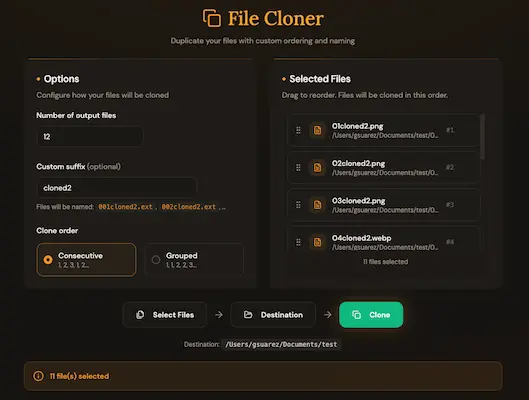
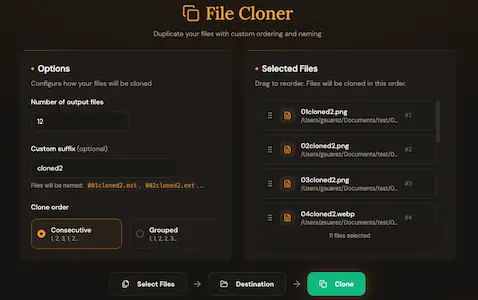
fix(portfolio): adjust images and technologies

diff --git a/index.html b/index.html
@@ -186,43 +186,54 @@
               </p>
               <footer class="card-footer">
                 <p class="technologies">
-                  <span title="NodeJS">
+                  <span title="NextJS">
                     <svg xmlns="http://www.w3.org/2000/svg" width="24" height="24" viewBox="0 0 24 24" fill="none"
                       stroke="currentColor" stroke-width="1.5" stroke-linecap="round" stroke-linejoin="round"
-                      class="icon icon-tabler icons-tabler-outline icon-tabler-brand-nodejs">
+                      class="icon icon-tabler icons-tabler-outline icon-tabler-brand-nextjs">
+                      <path stroke="none" d="M0 0h24v24H0z" fill="none" />
+                      <path d="M9 15v-6l7.745 10.65a9 9 0 1 1 2.255 -1.993" />
+                      <path d="M15 12v-3" />
+                    </svg>
+                  </span>
+                  <span title="TypeScript">
+                    <svg xmlns="http://www.w3.org/2000/svg" width="24" height="24" viewBox="0 0 24 24" fill="none"
+                      stroke="currentColor" stroke-width="1.5" stroke-linecap="round" stroke-linejoin="round"
+                      class="icon icon-tabler icons-tabler-outline icon-tabler-brand-typescript">
                       <path stroke="none" d="M0 0h24v24H0z" fill="none" />
                       <path
-                        d="M9 9v8.044a2 2 0 0 1 -2.996 1.734l-1.568 -.9a3 3 0 0 1 -1.436 -2.561v-6.635a3 3 0 0 1 1.436 -2.56l6 -3.667a3 3 0 0 1 3.128 0l6 3.667a3 3 0 0 1 1.436 2.561v6.634a3 3 0 0 1 -1.436 2.56l-6 3.667a3 3 0 0 1 -3.128 0" />
-                      <path d="M17 9h-3.5a1.5 1.5 0 0 0 0 3h2a1.5 1.5 0 0 1 0 3h-3.5" />
+                        d="M15 17.5c.32 .32 .754 .5 1.207 .5h.543c.69 0 1.25 -.56 1.25 -1.25v-.25a1.5 1.5 0 0 0 -1.5 -1.5a1.5 1.5 0 0 1 -1.5 -1.5v-.25c0 -.69 .56 -1.25 1.25 -1.25h.543c.453 0 .887 .18 1.207 .5" />
+                      <path d="M9 12h4" />
+                      <path d="M11 12v6" />
+                      <path d="M21 19v-14a2 2 0 0 0 -2 -2h-14a2 2 0 0 0 -2 2v14a2 2 0 0 0 2 2h14a2 2 0 0 0 2 -2" />
                     </svg>
                   </span>
-                  <span title="JavaScript">
+                  <span title="ReactJS">
                     <svg xmlns="http://www.w3.org/2000/svg" width="24" height="24" viewBox="0 0 24 24" fill="none"
                       stroke="currentColor" stroke-width="1.5" stroke-linecap="round" stroke-linejoin="round"
-                      class="icon icon-tabler icons-tabler-outline icon-tabler-brand-javascript">
+                      class="icon icon-tabler icons-tabler-outline icon-tabler-brand-react">
                       <path stroke="none" d="M0 0h24v24H0z" fill="none" />
-                      <path d="M20 4l-2 14.5l-6 2l-6 -2l-2 -14.5z" />
-                      <path d="M7.5 8h3v8l-2 -1" />
                       <path
-                        d="M16.5 8h-2.5a.5 .5 0 0 0 -.5 .5v3a.5 .5 0 0 0 .5 .5h1.423a.5 .5 0 0 1 .495 .57l-.418 2.93l-2 .5" />
+                        d="M6.306 8.711c-2.602 .723 -4.306 1.926 -4.306 3.289c0 2.21 4.477 4 10 4c.773 0 1.526 -.035 2.248 -.102" />
+                      <path
+                        d="M17.692 15.289c2.603 -.722 4.308 -1.926 4.308 -3.289c0 -2.21 -4.477 -4 -10 -4c-.773 0 -1.526 .035 -2.25 .102" />
+                      <path
+                        d="M6.305 15.287c-.676 2.615 -.485 4.693 .695 5.373c1.913 1.105 5.703 -1.877 8.464 -6.66c.387 -.67 .733 -1.339 1.036 -2" />
+                      <path
+                        d="M17.694 8.716c.677 -2.616 .487 -4.696 -.694 -5.376c-1.913 -1.105 -5.703 1.877 -8.464 6.66c-.387 .67 -.733 1.34 -1.037 2" />
+                      <path
+                        d="M12 5.424c-1.925 -1.892 -3.82 -2.766 -5 -2.084c-1.913 1.104 -1.226 5.877 1.536 10.66c.386 .67 .793 1.304 1.212 1.896" />
+                      <path
+                        d="M12 18.574c1.926 1.893 3.821 2.768 5 2.086c1.913 -1.104 1.226 -5.877 -1.536 -10.66c-.375 -.65 -.78 -1.283 -1.212 -1.897" />
+                      <path d="M11.5 12.866a1 1 0 1 0 1 -1.732a1 1 0 0 0 -1 1.732z" />
                     </svg>
                   </span>
-                  <span title="HTML5">
+                  <span title="Tailwind">
                     <svg xmlns="http://www.w3.org/2000/svg" width="24" height="24" viewBox="0 0 24 24" fill="none"
                       stroke="currentColor" stroke-width="1.5" stroke-linecap="round" stroke-linejoin="round"
-                      class="icon icon-tabler icons-tabler-outline icon-tabler-brand-html5">
+                      class="icon icon-tabler icons-tabler-outline icon-tabler-brand-tailwind">
                       <path stroke="none" d="M0 0h24v24H0z" fill="none" />
-                      <path d="M20 4l-2 14.5l-6 2l-6 -2l-2 -14.5z" />
-                      <path d="M15.5 8h-7l.5 4h6l-.5 3.5l-2.5 .75l-2.5 -.75l-.1 -.5" />
-                    </svg>
-                  </span>
-                  <span title="CSS3">
-                    <svg xmlns="http://www.w3.org/2000/svg" width="24" height="24" viewBox="0 0 24 24" fill="none"
-                      stroke="currentColor" stroke-width="1.5" stroke-linecap="round" stroke-linejoin="round"
-                      class="icon icon-tabler icons-tabler-outline icon-tabler-brand-css3">
-                      <path stroke="none" d="M0 0h24v24H0z" fill="none" />
-                      <path d="M20 4l-2 14.5l-6 2l-6 -2l-2 -14.5z" />
-                      <path d="M8.5 8h7l-4.5 4h4l-.5 3.5l-2.5 .75l-2.5 -.75l-.1 -.5" />
+                      <path
+                        d="M11.667 6c-2.49 0 -4.044 1.222 -4.667 3.667c.933 -1.223 2.023 -1.68 3.267 -1.375c.71 .174 1.217 .68 1.778 1.24c.916 .912 2 1.968 4.288 1.968c2.49 0 4.044 -1.222 4.667 -3.667c-.933 1.223 -2.023 1.68 -3.267 1.375c-.71 -.174 -1.217 -.68 -1.778 -1.24c-.916 -.912 -1.975 -1.968 -4.288 -1.968m-4 6.5c-2.49 0 -4.044 1.222 -4.667 3.667c.933 -1.223 2.023 -1.68 3.267 -1.375c.71 .174 1.217 .68 1.778 1.24c.916 .912 1.975 1.968 4.288 1.968c2.49 0 4.044 -1.222 4.667 -3.667c-.933 1.223 -2.023 1.68 -3.267 1.375c-.71 -.174 -1.217 -.68 -1.778 -1.24c-.916 -.912 -1.975 -1.968 -4.288 -1.968" />
                     </svg>
                   </span>
                   <span title="WebRTC">
@@ -265,43 +276,64 @@
               </p>
               <footer class="card-footer">
                 <p class="technologies">
-                  <span title="NodeJS">
+                  <span title="NextJS">
                     <svg xmlns="http://www.w3.org/2000/svg" width="24" height="24" viewBox="0 0 24 24" fill="none"
                       stroke="currentColor" stroke-width="1.5" stroke-linecap="round" stroke-linejoin="round"
-                      class="icon icon-tabler icons-tabler-outline icon-tabler-brand-nodejs">
+                      class="icon icon-tabler icons-tabler-outline icon-tabler-brand-nextjs">
+                      <path stroke="none" d="M0 0h24v24H0z" fill="none" />
+                      <path d="M9 15v-6l7.745 10.65a9 9 0 1 1 2.255 -1.993" />
+                      <path d="M15 12v-3" />
+                    </svg>
+                  </span>
+                  <span title="TypeScript">
+                    <svg xmlns="http://www.w3.org/2000/svg" width="24" height="24" viewBox="0 0 24 24" fill="none"
+                      stroke="currentColor" stroke-width="1.5" stroke-linecap="round" stroke-linejoin="round"
+                      class="icon icon-tabler icons-tabler-outline icon-tabler-brand-typescript">
                       <path stroke="none" d="M0 0h24v24H0z" fill="none" />
                       <path
-                        d="M9 9v8.044a2 2 0 0 1 -2.996 1.734l-1.568 -.9a3 3 0 0 1 -1.436 -2.561v-6.635a3 3 0 0 1 1.436 -2.56l6 -3.667a3 3 0 0 1 3.128 0l6 3.667a3 3 0 0 1 1.436 2.561v6.634a3 3 0 0 1 -1.436 2.56l-6 3.667a3 3 0 0 1 -3.128 0" />
-                      <path d="M17 9h-3.5a1.5 1.5 0 0 0 0 3h2a1.5 1.5 0 0 1 0 3h-3.5" />
+                        d="M15 17.5c.32 .32 .754 .5 1.207 .5h.543c.69 0 1.25 -.56 1.25 -1.25v-.25a1.5 1.5 0 0 0 -1.5 -1.5a1.5 1.5 0 0 1 -1.5 -1.5v-.25c0 -.69 .56 -1.25 1.25 -1.25h.543c.453 0 .887 .18 1.207 .5" />
+                      <path d="M9 12h4" />
+                      <path d="M11 12v6" />
+                      <path d="M21 19v-14a2 2 0 0 0 -2 -2h-14a2 2 0 0 0 -2 2v14a2 2 0 0 0 2 2h14a2 2 0 0 0 2 -2" />
                     </svg>
                   </span>
-                  <span title="JavaScript">
+                  <span title="ReactJS">
                     <svg xmlns="http://www.w3.org/2000/svg" width="24" height="24" viewBox="0 0 24 24" fill="none"
                       stroke="currentColor" stroke-width="1.5" stroke-linecap="round" stroke-linejoin="round"
-                      class="icon icon-tabler icons-tabler-outline icon-tabler-brand-javascript">
+                      class="icon icon-tabler icons-tabler-outline icon-tabler-brand-react">
                       <path stroke="none" d="M0 0h24v24H0z" fill="none" />
-                      <path d="M20 4l-2 14.5l-6 2l-6 -2l-2 -14.5z" />
-                      <path d="M7.5 8h3v8l-2 -1" />
                       <path
-                        d="M16.5 8h-2.5a.5 .5 0 0 0 -.5 .5v3a.5 .5 0 0 0 .5 .5h1.423a.5 .5 0 0 1 .495 .57l-.418 2.93l-2 .5" />
+                        d="M6.306 8.711c-2.602 .723 -4.306 1.926 -4.306 3.289c0 2.21 4.477 4 10 4c.773 0 1.526 -.035 2.248 -.102" />
+                      <path
+                        d="M17.692 15.289c2.603 -.722 4.308 -1.926 4.308 -3.289c0 -2.21 -4.477 -4 -10 -4c-.773 0 -1.526 .035 -2.25 .102" />
+                      <path
+                        d="M6.305 15.287c-.676 2.615 -.485 4.693 .695 5.373c1.913 1.105 5.703 -1.877 8.464 -6.66c.387 -.67 .733 -1.339 1.036 -2" />
+                      <path
+                        d="M17.694 8.716c.677 -2.616 .487 -4.696 -.694 -5.376c-1.913 -1.105 -5.703 1.877 -8.464 6.66c-.387 .67 -.733 1.34 -1.037 2" />
+                      <path
+                        d="M12 5.424c-1.925 -1.892 -3.82 -2.766 -5 -2.084c-1.913 1.104 -1.226 5.877 1.536 10.66c.386 .67 .793 1.304 1.212 1.896" />
+                      <path
+                        d="M12 18.574c1.926 1.893 3.821 2.768 5 2.086c1.913 -1.104 1.226 -5.877 -1.536 -10.66c-.375 -.65 -.78 -1.283 -1.212 -1.897" />
+                      <path d="M11.5 12.866a1 1 0 1 0 1 -1.732a1 1 0 0 0 -1 1.732z" />
                     </svg>
                   </span>
-                  <span title="HTML5">
+                  <span title="Tailwind">
                     <svg xmlns="http://www.w3.org/2000/svg" width="24" height="24" viewBox="0 0 24 24" fill="none"
                       stroke="currentColor" stroke-width="1.5" stroke-linecap="round" stroke-linejoin="round"
-                      class="icon icon-tabler icons-tabler-outline icon-tabler-brand-html5">
+                      class="icon icon-tabler icons-tabler-outline icon-tabler-brand-tailwind">
                       <path stroke="none" d="M0 0h24v24H0z" fill="none" />
-                      <path d="M20 4l-2 14.5l-6 2l-6 -2l-2 -14.5z" />
-                      <path d="M15.5 8h-7l.5 4h6l-.5 3.5l-2.5 .75l-2.5 -.75l-.1 -.5" />
+                      <path
+                        d="M11.667 6c-2.49 0 -4.044 1.222 -4.667 3.667c.933 -1.223 2.023 -1.68 3.267 -1.375c.71 .174 1.217 .68 1.778 1.24c.916 .912 2 1.968 4.288 1.968c2.49 0 4.044 -1.222 4.667 -3.667c-.933 1.223 -2.023 1.68 -3.267 1.375c-.71 -.174 -1.217 -.68 -1.778 -1.24c-.916 -.912 -1.975 -1.968 -4.288 -1.968m-4 6.5c-2.49 0 -4.044 1.222 -4.667 3.667c.933 -1.223 2.023 -1.68 3.267 -1.375c.71 .174 1.217 .68 1.778 1.24c.916 .912 1.975 1.968 4.288 1.968c2.49 0 4.044 -1.222 4.667 -3.667c-.933 1.223 -2.023 1.68 -3.267 1.375c-.71 -.174 -1.217 -.68 -1.778 -1.24c-.916 -.912 -1.975 -1.968 -4.288 -1.968" />
                     </svg>
                   </span>
-                  <span title="CSS3">
+                  <span title="Websockets">
                     <svg xmlns="http://www.w3.org/2000/svg" width="24" height="24" viewBox="0 0 24 24" fill="none"
                       stroke="currentColor" stroke-width="1.5" stroke-linecap="round" stroke-linejoin="round"
-                      class="icon icon-tabler icons-tabler-outline icon-tabler-brand-css3">
+                      class="icon icon-tabler icons-tabler-outline icon-tabler-brand-socket-io">
                       <path stroke="none" d="M0 0h24v24H0z" fill="none" />
-                      <path d="M20 4l-2 14.5l-6 2l-6 -2l-2 -14.5z" />
-                      <path d="M8.5 8h7l-4.5 4h4l-.5 3.5l-2.5 .75l-2.5 -.75l-.1 -.5" />
+                      <path d="M3 12a9 9 0 1 0 18 0a9 9 0 1 0 -18 0" />
+                      <path d="M11 11h1l3 -4l-4 4" />
+                      <path d="M12 13h1l-4 4l3 -4" />
                     </svg>
                   </span>
                 </p>
@@ -333,55 +365,16 @@
               </p>
               <footer class="card-footer">
                 <p class="technologies">
-                  <span title="NodeJS">
+                  <span title="TypeScript">
                     <svg xmlns="http://www.w3.org/2000/svg" width="24" height="24" viewBox="0 0 24 24" fill="none"
                       stroke="currentColor" stroke-width="1.5" stroke-linecap="round" stroke-linejoin="round"
-                      class="icon icon-tabler icons-tabler-outline icon-tabler-brand-nodejs">
+                      class="icon icon-tabler icons-tabler-outline icon-tabler-brand-typescript">
                       <path stroke="none" d="M0 0h24v24H0z" fill="none" />
                       <path
-                        d="M9 9v8.044a2 2 0 0 1 -2.996 1.734l-1.568 -.9a3 3 0 0 1 -1.436 -2.561v-6.635a3 3 0 0 1 1.436 -2.56l6 -3.667a3 3 0 0 1 3.128 0l6 3.667a3 3 0 0 1 1.436 2.561v6.634a3 3 0 0 1 -1.436 2.56l-6 3.667a3 3 0 0 1 -3.128 0" />
-                      <path d="M17 9h-3.5a1.5 1.5 0 0 0 0 3h2a1.5 1.5 0 0 1 0 3h-3.5" />
-                    </svg>
-                  </span>
-                  <span title="JavaScript">
-                    <svg xmlns="http://www.w3.org/2000/svg" width="24" height="24" viewBox="0 0 24 24" fill="none"
-                      stroke="currentColor" stroke-width="1.5" stroke-linecap="round" stroke-linejoin="round"
-                      class="icon icon-tabler icons-tabler-outline icon-tabler-brand-javascript">
-                      <path stroke="none" d="M0 0h24v24H0z" fill="none" />
-                      <path d="M20 4l-2 14.5l-6 2l-6 -2l-2 -14.5z" />
-                      <path d="M7.5 8h3v8l-2 -1" />
-                      <path
-                        d="M16.5 8h-2.5a.5 .5 0 0 0 -.5 .5v3a.5 .5 0 0 0 .5 .5h1.423a.5 .5 0 0 1 .495 .57l-.418 2.93l-2 .5" />
-                    </svg>
-                  </span>
-                  <span title="HTML5">
-                    <svg xmlns="http://www.w3.org/2000/svg" width="24" height="24" viewBox="0 0 24 24" fill="none"
-                      stroke="currentColor" stroke-width="1.5" stroke-linecap="round" stroke-linejoin="round"
-                      class="icon icon-tabler icons-tabler-outline icon-tabler-brand-html5">
-                      <path stroke="none" d="M0 0h24v24H0z" fill="none" />
-                      <path d="M20 4l-2 14.5l-6 2l-6 -2l-2 -14.5z" />
-                      <path d="M15.5 8h-7l.5 4h6l-.5 3.5l-2.5 .75l-2.5 -.75l-.1 -.5" />
-                    </svg>
-                  </span>
-                  <span title="CSS3">
-                    <svg xmlns="http://www.w3.org/2000/svg" width="24" height="24" viewBox="0 0 24 24" fill="none"
-                      stroke="currentColor" stroke-width="1.5" stroke-linecap="round" stroke-linejoin="round"
-                      class="icon icon-tabler icons-tabler-outline icon-tabler-brand-css3">
-                      <path stroke="none" d="M0 0h24v24H0z" fill="none" />
-                      <path d="M20 4l-2 14.5l-6 2l-6 -2l-2 -14.5z" />
-                      <path d="M8.5 8h7l-4.5 4h4l-.5 3.5l-2.5 .75l-2.5 -.75l-.1 -.5" />
-                    </svg>
-                  </span>
-                  <span title="ElectronJS">
-                    <svg xmlns="http://www.w3.org/2000/svg" width="24" height="24" viewBox="0 0 24 24" fill="none"
-                      stroke="currentColor" stroke-width="1.5" stroke-linecap="round" stroke-linejoin="round"
-                      class="icon icon-tabler icons-tabler-outline icon-tabler-atom">
-                      <path stroke="none" d="M0 0h24v24H0z" fill="none" />
-                      <path d="M12 12v.01" />
-                      <path
-                        d="M19.071 4.929c-1.562 -1.562 -6 .337 -9.9 4.243c-3.905 3.905 -5.804 8.337 -4.242 9.9c1.562 1.561 6 -.338 9.9 -4.244c3.905 -3.905 5.804 -8.337 4.242 -9.9" />
-                      <path
-                        d="M4.929 4.929c-1.562 1.562 .337 6 4.243 9.9c3.905 3.905 8.337 5.804 9.9 4.242c1.561 -1.562 -.338 -6 -4.244 -9.9c-3.905 -3.905 -8.337 -5.804 -9.9 -4.242" />
+                        d="M15 17.5c.32 .32 .754 .5 1.207 .5h.543c.69 0 1.25 -.56 1.25 -1.25v-.25a1.5 1.5 0 0 0 -1.5 -1.5a1.5 1.5 0 0 1 -1.5 -1.5v-.25c0 -.69 .56 -1.25 1.25 -1.25h.543c.453 0 .887 .18 1.207 .5" />
+                      <path d="M9 12h4" />
+                      <path d="M11 12v6" />
+                      <path d="M21 19v-14a2 2 0 0 0 -2 -2h-14a2 2 0 0 0 -2 2v14a2 2 0 0 0 2 2h14a2 2 0 0 0 2 -2" />
                     </svg>
                   </span>
                   <span title="ReactJS">
@@ -402,6 +395,27 @@
                       <path
                         d="M12 18.574c1.926 1.893 3.821 2.768 5 2.086c1.913 -1.104 1.226 -5.877 -1.536 -10.66c-.375 -.65 -.78 -1.283 -1.212 -1.897" />
                       <path d="M11.5 12.866a1 1 0 1 0 1 -1.732a1 1 0 0 0 -1 1.732z" />
+                    </svg>
+                  </span>
+                  <span title="Tailwind">
+                    <svg xmlns="http://www.w3.org/2000/svg" width="24" height="24" viewBox="0 0 24 24" fill="none"
+                      stroke="currentColor" stroke-width="1.5" stroke-linecap="round" stroke-linejoin="round"
+                      class="icon icon-tabler icons-tabler-outline icon-tabler-brand-tailwind">
+                      <path stroke="none" d="M0 0h24v24H0z" fill="none" />
+                      <path
+                        d="M11.667 6c-2.49 0 -4.044 1.222 -4.667 3.667c.933 -1.223 2.023 -1.68 3.267 -1.375c.71 .174 1.217 .68 1.778 1.24c.916 .912 2 1.968 4.288 1.968c2.49 0 4.044 -1.222 4.667 -3.667c-.933 1.223 -2.023 1.68 -3.267 1.375c-.71 -.174 -1.217 -.68 -1.778 -1.24c-.916 -.912 -1.975 -1.968 -4.288 -1.968m-4 6.5c-2.49 0 -4.044 1.222 -4.667 3.667c.933 -1.223 2.023 -1.68 3.267 -1.375c.71 .174 1.217 .68 1.778 1.24c.916 .912 1.975 1.968 4.288 1.968c2.49 0 4.044 -1.222 4.667 -3.667c-.933 1.223 -2.023 1.68 -3.267 1.375c-.71 -.174 -1.217 -.68 -1.778 -1.24c-.916 -.912 -1.975 -1.968 -4.288 -1.968" />
+                    </svg>
+                  </span>
+                  <span title="ElectronJS">
+                    <svg xmlns="http://www.w3.org/2000/svg" width="24" height="24" viewBox="0 0 24 24" fill="none"
+                      stroke="currentColor" stroke-width="1.5" stroke-linecap="round" stroke-linejoin="round"
+                      class="icon icon-tabler icons-tabler-outline icon-tabler-atom">
+                      <path stroke="none" d="M0 0h24v24H0z" fill="none" />
+                      <path d="M12 12v.01" />
+                      <path
+                        d="M19.071 4.929c-1.562 -1.562 -6 .337 -9.9 4.243c-3.905 3.905 -5.804 8.337 -4.242 9.9c1.562 1.561 6 -.338 9.9 -4.244c3.905 -3.905 5.804 -8.337 4.242 -9.9" />
+                      <path
+                        d="M4.929 4.929c-1.562 1.562 .337 6 4.243 9.9c3.905 3.905 8.337 5.804 9.9 4.242c1.561 -1.562 -.338 -6 -4.244 -9.9c-3.905 -3.905 -8.337 -5.804 -9.9 -4.242" />
                     </svg>
                   </span>
                 </p>

diff --git a/css/card.css b/css/card.css
@@ -47,7 +47,7 @@
 
 .card-list-item-figure {
   width: 100%;
-  height: auto;
+  height: 150px;
   overflow: hidden;
   position: relative;
 }
@@ -56,6 +56,8 @@
   transition: transform 1s ease;
   vertical-align: middle;
   width: 100%;
+  height: 100%;
+  object-fit: cover;
   /* Avoid flickering */
   backface-visibility: hidden;
 }
